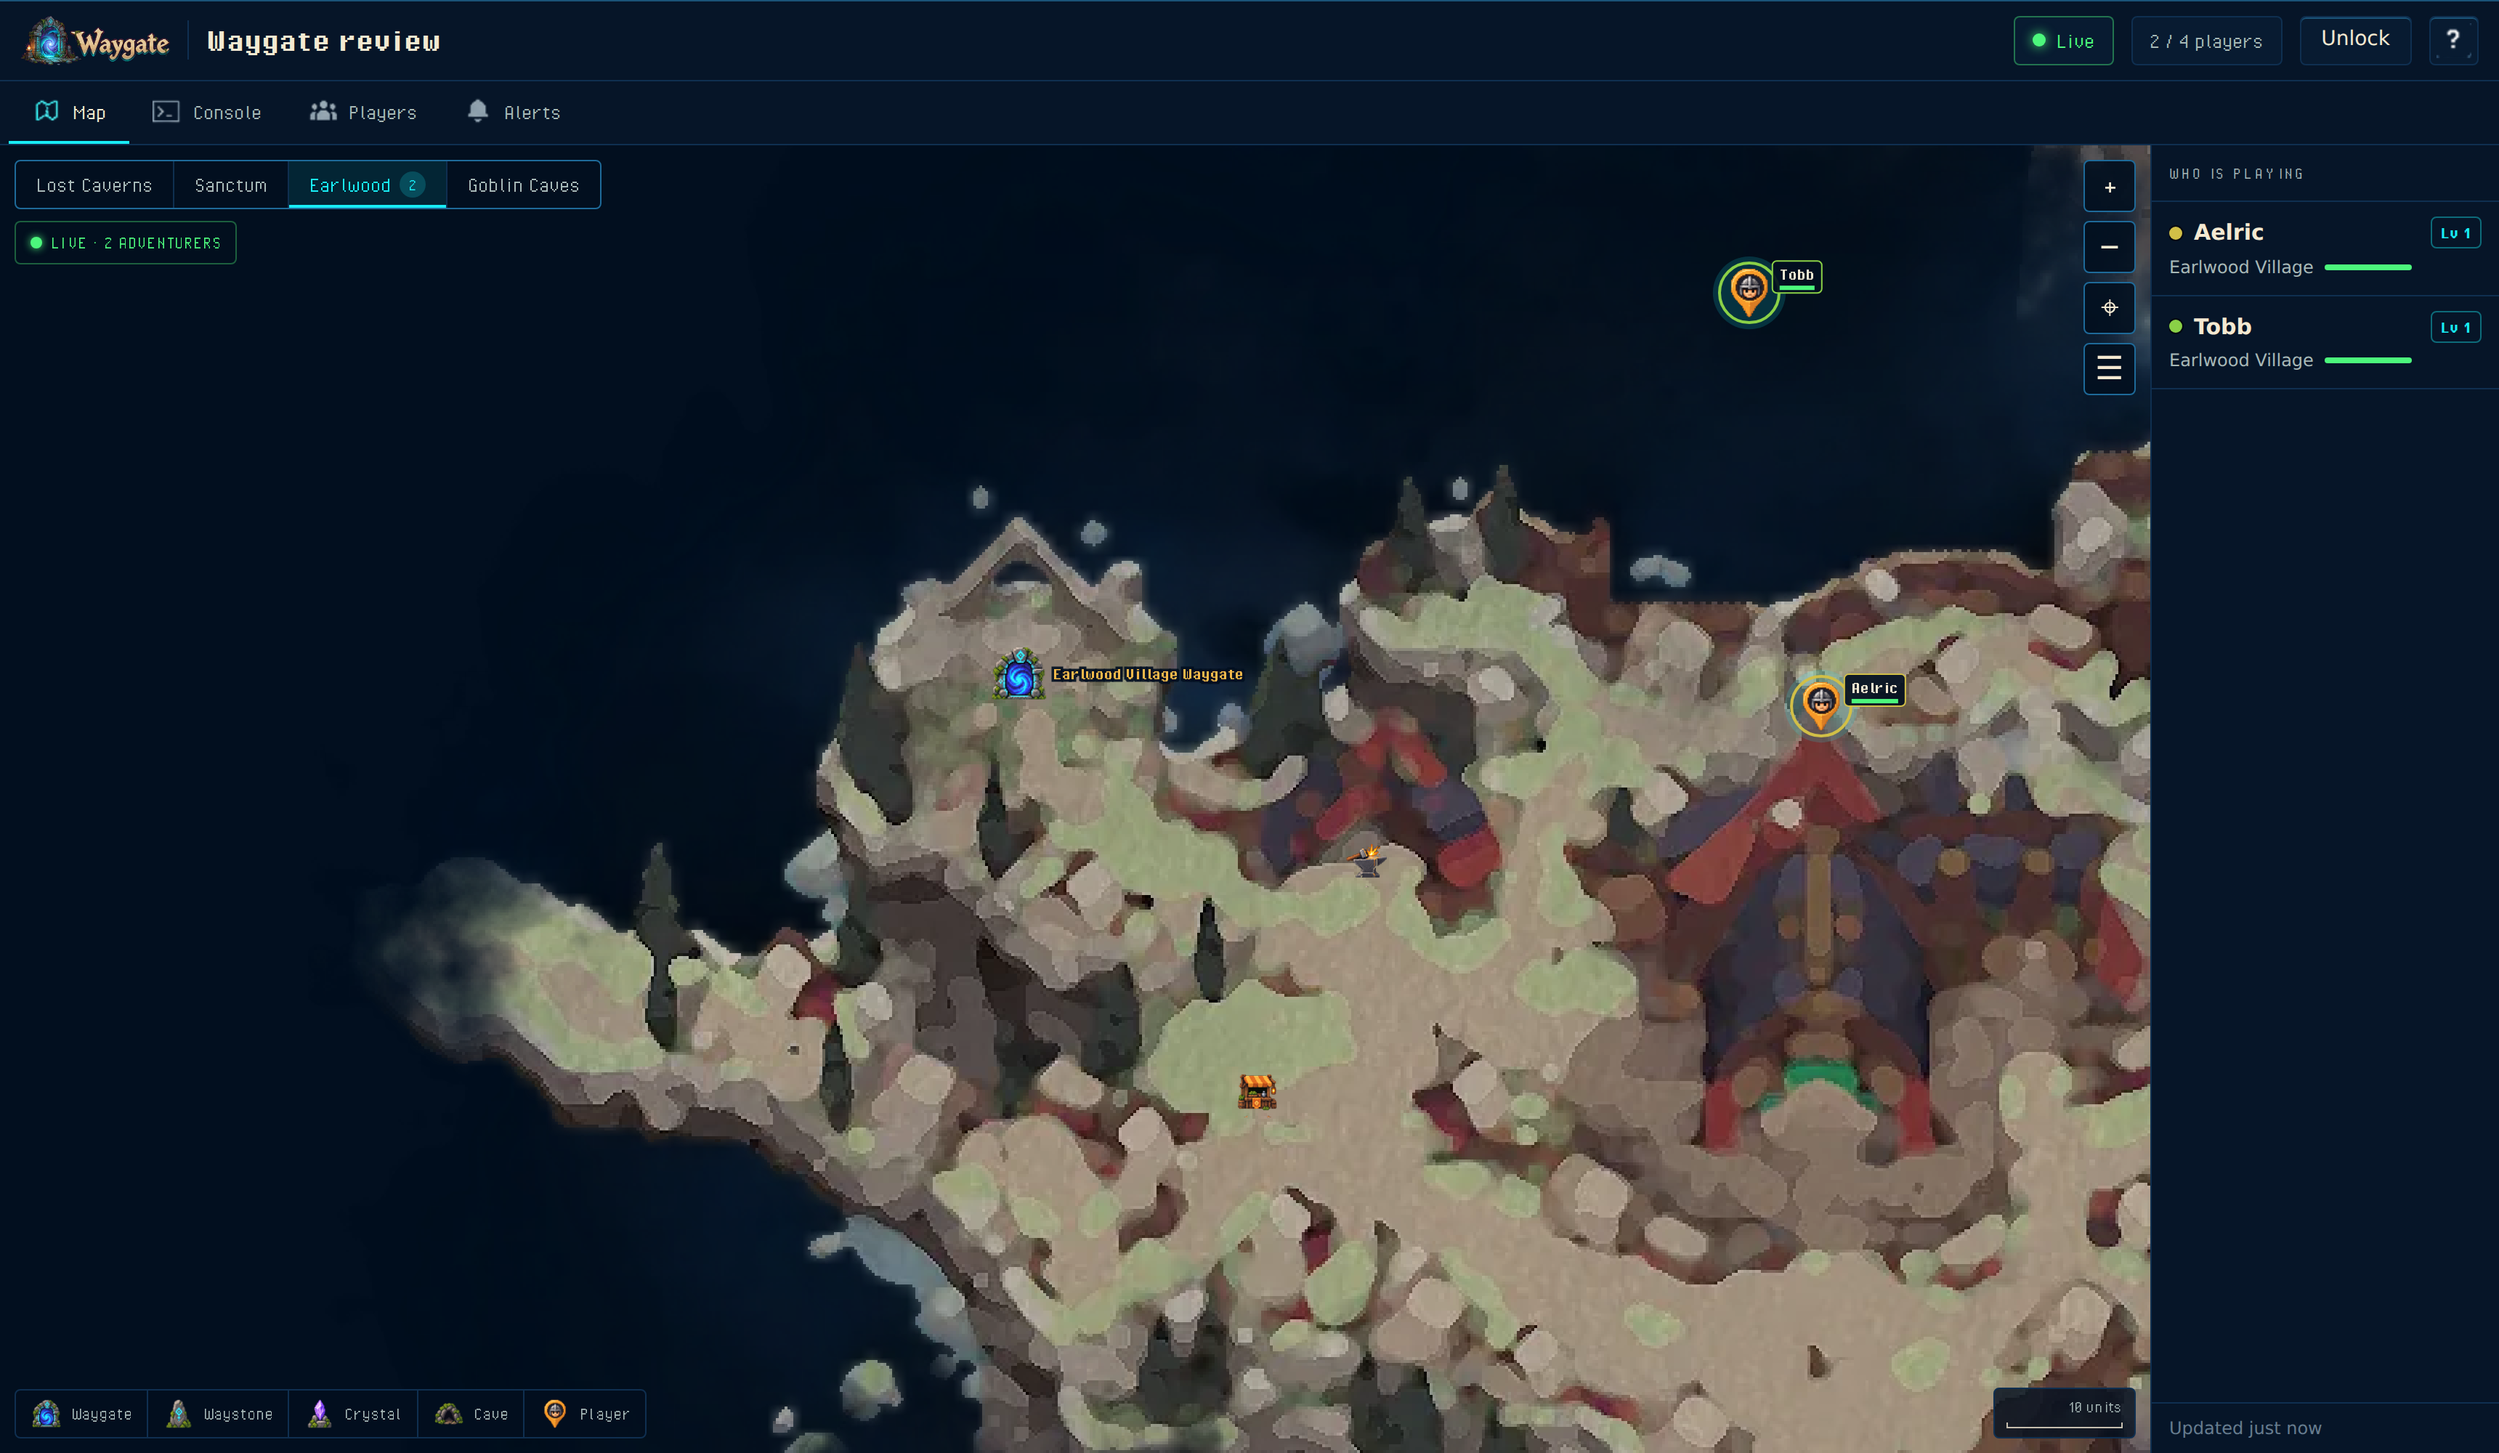
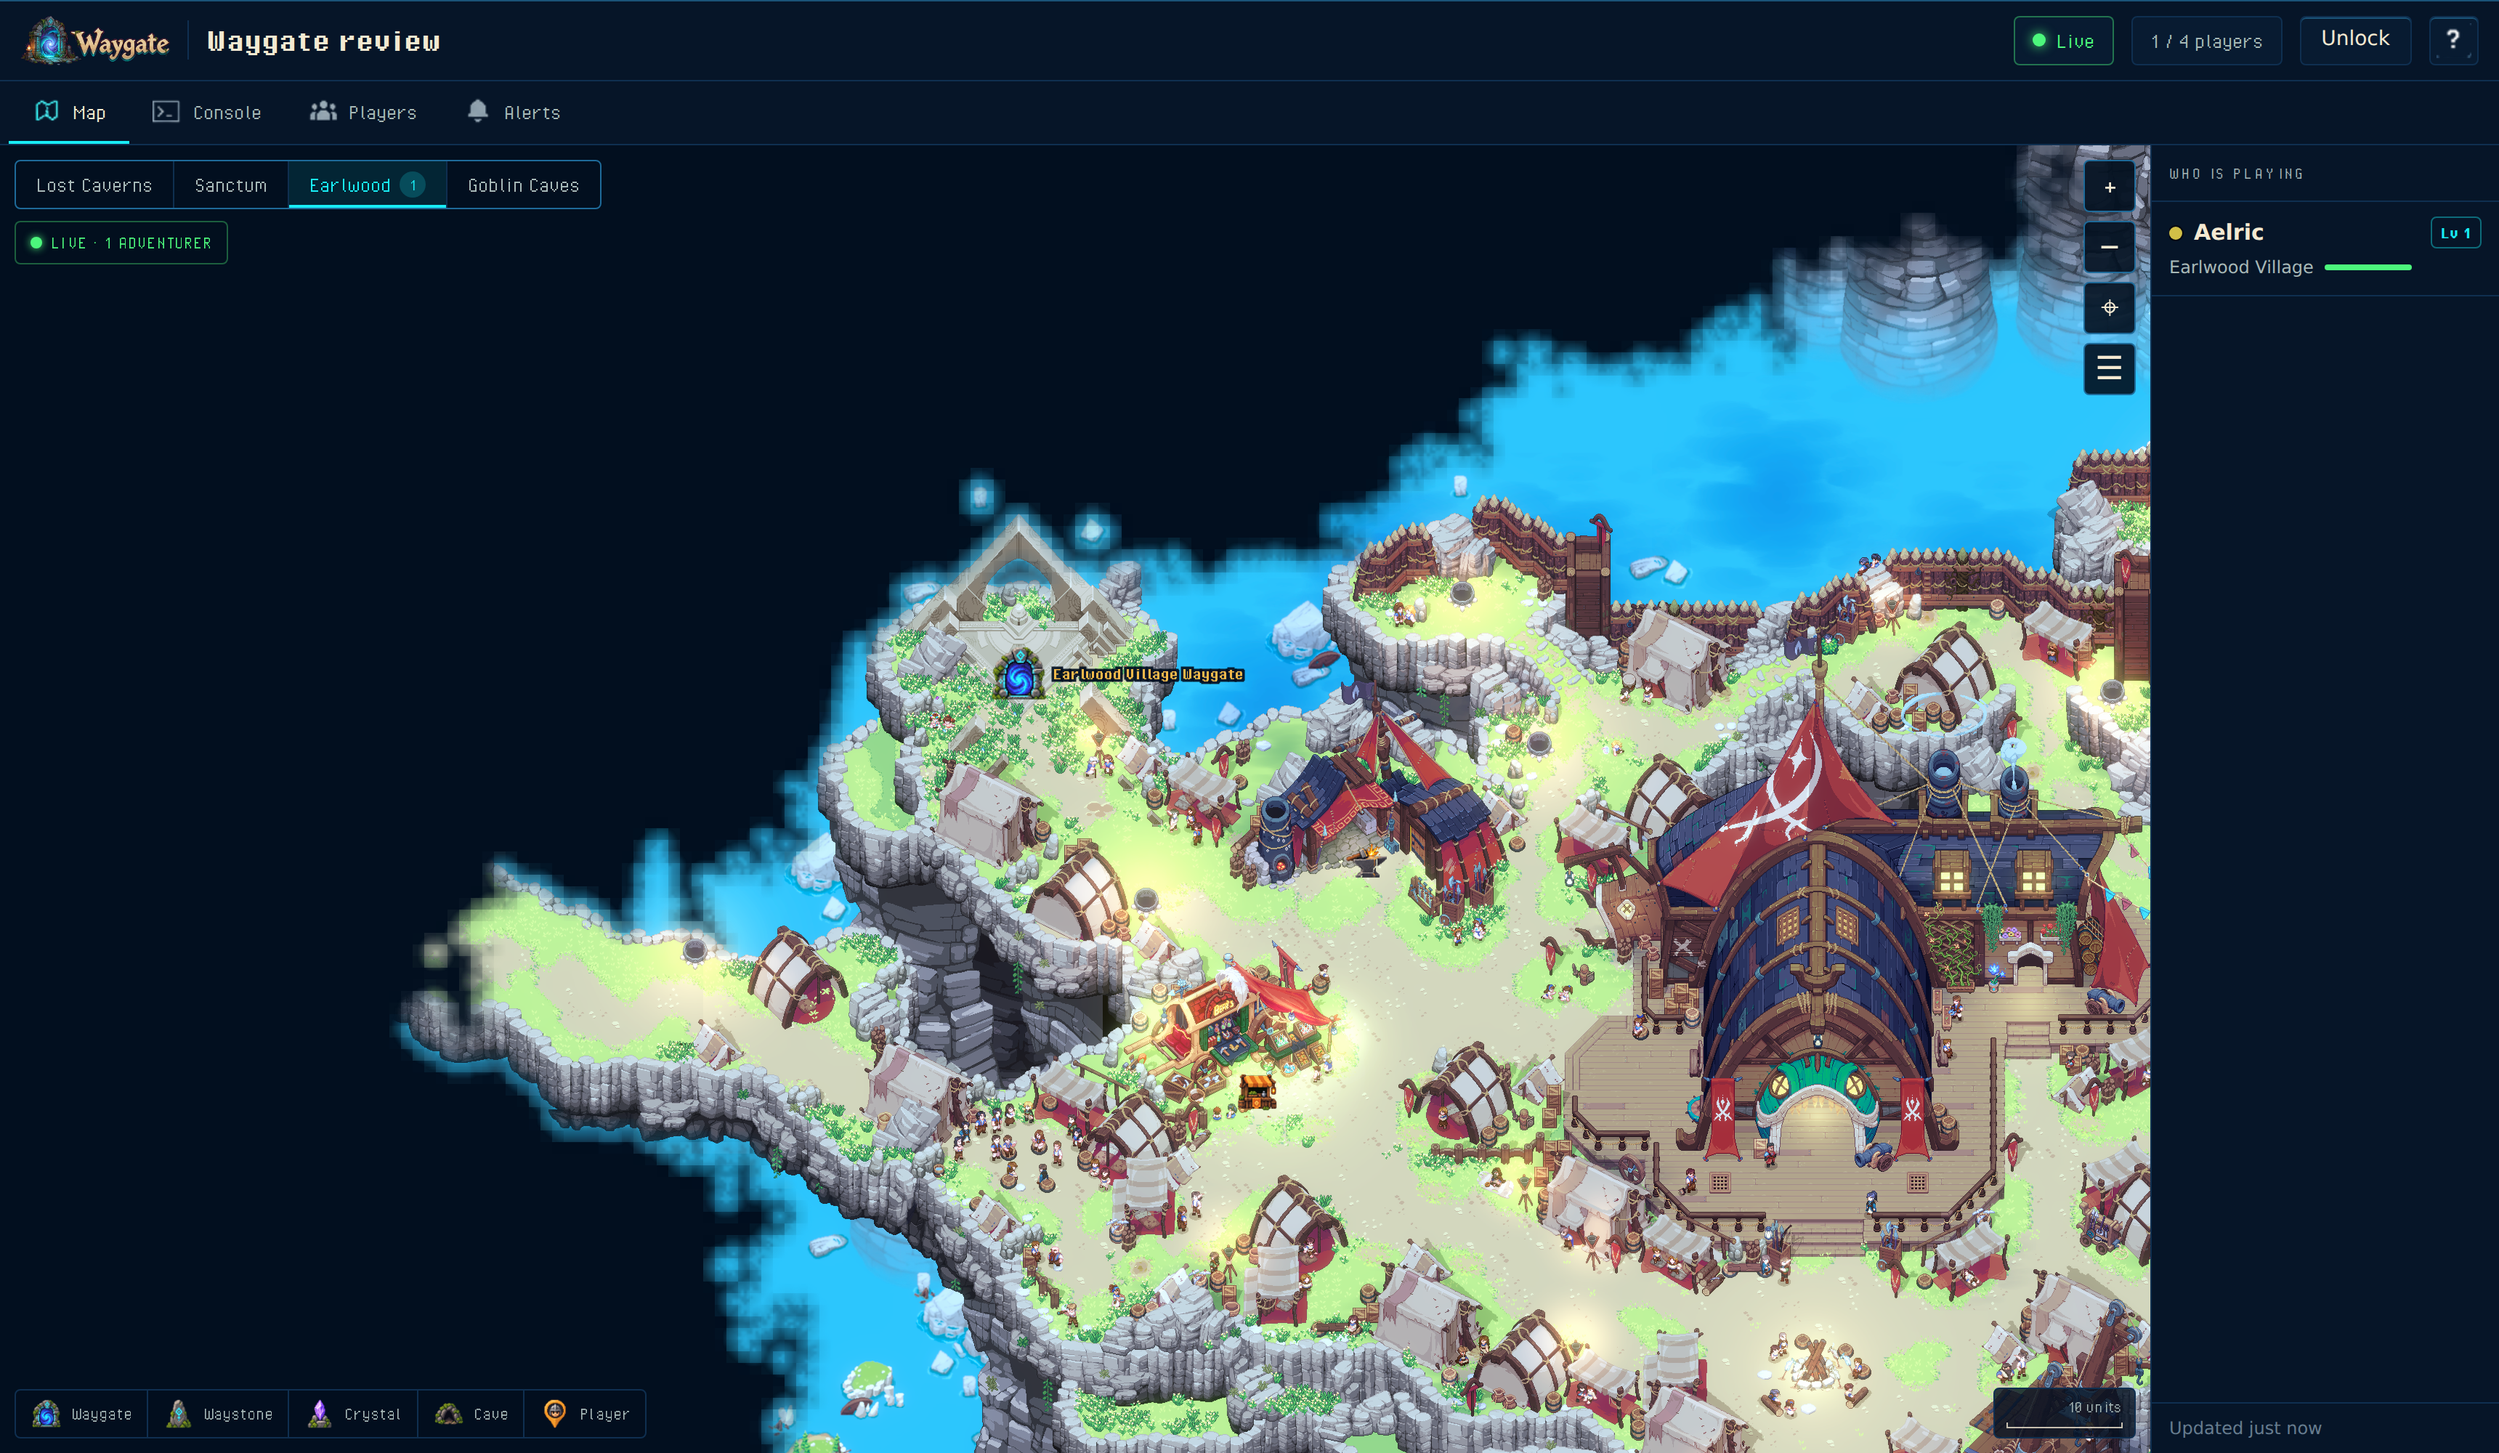
docs/web.md and the map captures: the map is the world drawn by the game's own renderer

diff --git a/docs/web.md b/docs/web.md
@@ -27,7 +27,7 @@ The rail on the right lists who is playing on every tab; on a phone it is a shee
 
 ## The map, close up
 
-The map is the game's own map art at the game's own pixel density (4 per world unit), served as tiles. Zooming in goes to the same 4x the game's map allows, drawn as whole pixel blocks the way the game draws it; zooming out uses pre-scaled copies, so the picture is never stretched or blurred at any level. The layers button hides and shows each kind of marker and a veil over unexplored ground (off by default).
+The map is the world as the game itself draws it: a capture of the loaded world through the game's own renderer, cut into tiles. The package carries it at up to 8 pixels per world unit. Zooming in stops at 16 screen pixels per unit, the game's own closest zoom, where those pixels are doubled cleanly; a picture at exactly its own size is drawn pixel for pixel, and zooming out uses pre-scaled copies, so nothing is stretched or blurred at any level. The layers button hides and shows each kind of marker and a veil over unexplored ground (off by default).
 
 <p align="center">
   <img src="img/web-map-zoom.png" alt="Earlwood Village at the game's full zoom" width="860">
@@ -65,7 +65,7 @@ RoundupHours = 0     # 0 = never
 
 ## Where the pictures come from
 
-The map is the game's own map art, placed by the area rectangles the running game reports, tiled for the browser and shipped in the release beside the plugin (`BepInEx\plugins\WaygateAdmin\www\maps`). Live positions come from the host's own memory every five seconds while a page is open, and nothing is written to disk for it.
+The map is drawn by the game: the loaded world rendered through the game's own camera at noon, with monsters, weather and screen effects off, placed by the area rectangles the running game reports, tiled for the browser and shipped in the release beside the plugin (`BepInEx\plugins\WaygateAdmin\www\maps`). Live positions come from the host's own memory every five seconds while a page is open, and nothing is written to disk for it.
 
 ## What it is not
 
